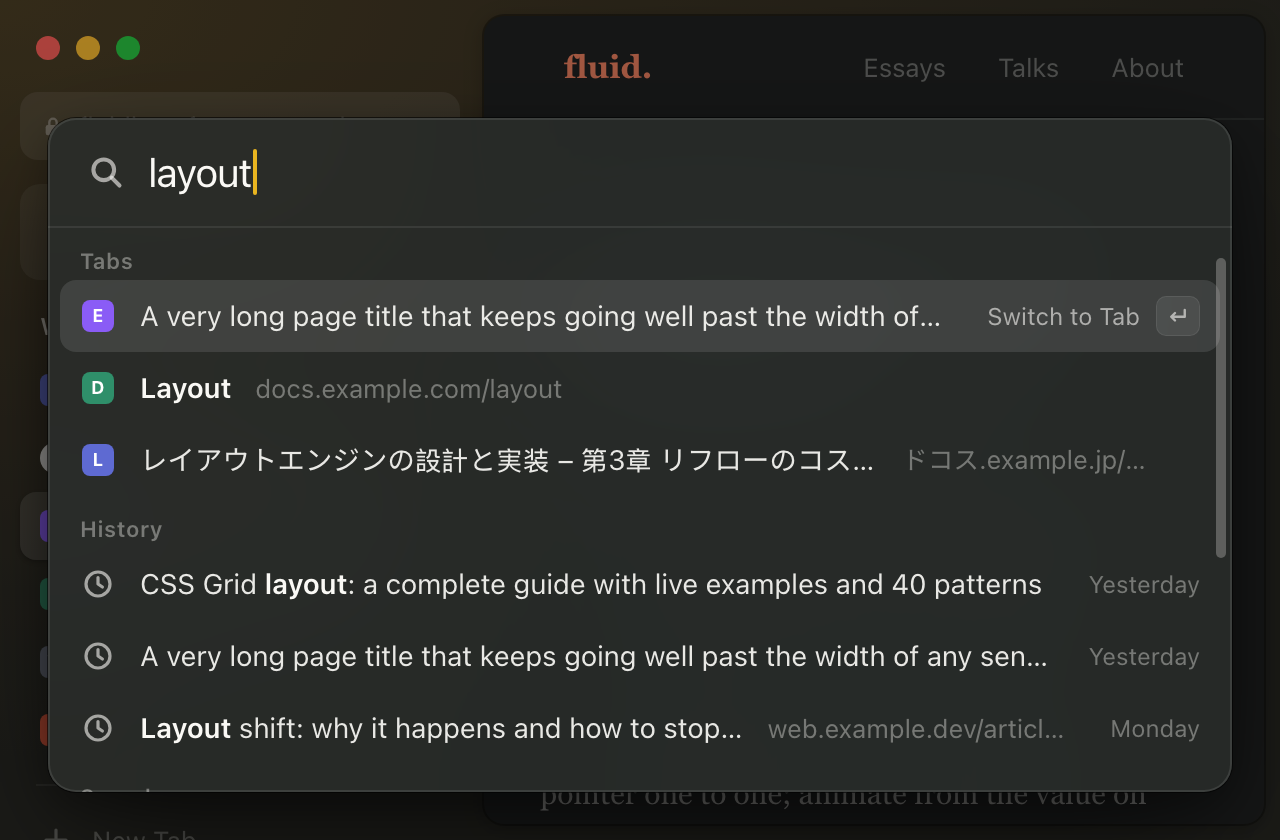
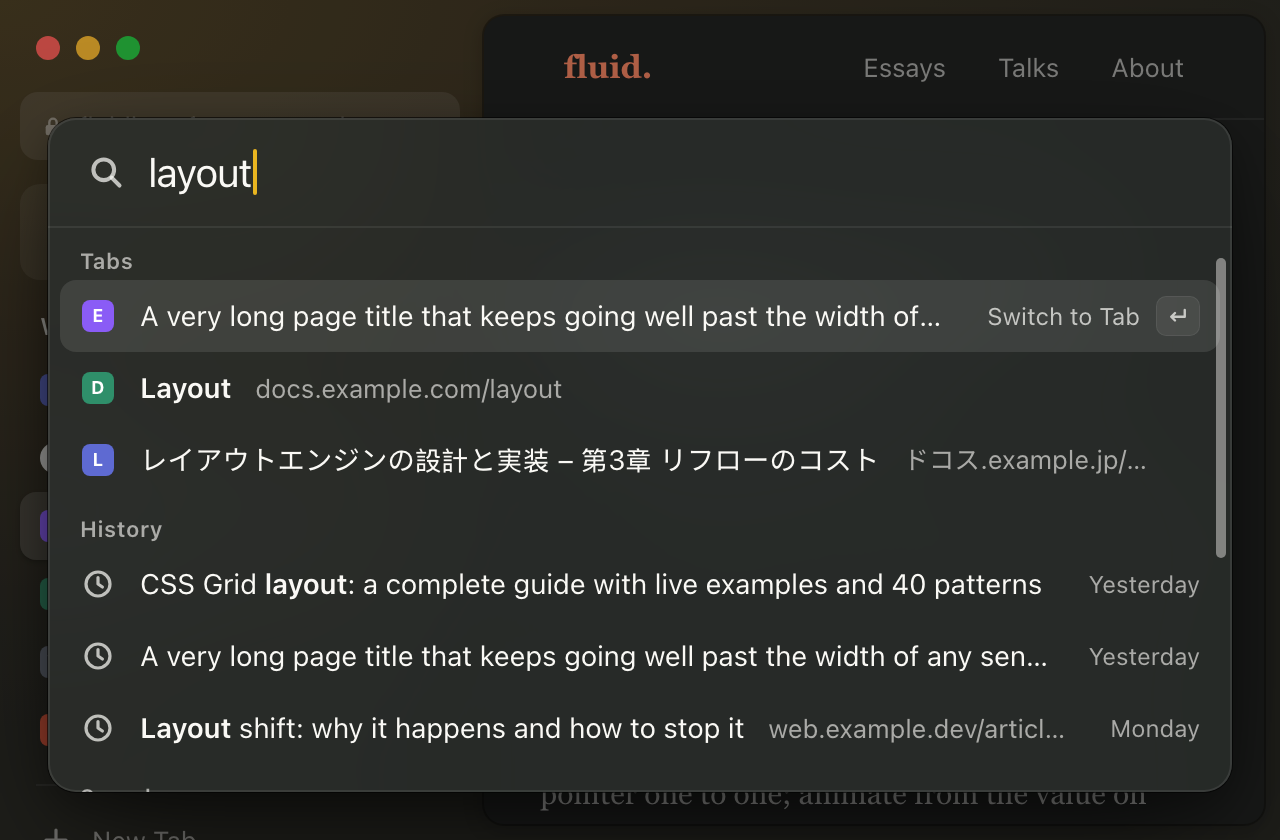
Design: use the shipped command bar tokens, protect the title when truncating, spec gaps (#988)

diff --git a/design/command-bar/prototype/window.css b/design/command-bar/prototype/window.css
@@ -10,21 +10,21 @@ body { font-family: var(--sys); -webkit-font-smoothing: antialiased; position: r
 
 /* Theme tokens. dark is the default; body.light overrides. */
 body {
-  --ink: rgb(250 249 245 / .92); --ink-2: rgb(250 249 245 / .6); --ink-3: rgb(250 249 245 / .38);
-  --strong: var(--porcelain); --hair: rgb(255 255 255 / .08); --sel: rgb(255 255 255 / .11);
-  --kbd: rgb(255 255 255 / .08); --well: rgb(255 255 255 / .06);
-  --bar: rgb(40 43 41 / .88); --bar-edge: rgb(255 255 255 / .1);
-  --scrim: rgb(8 9 8 / .34);
+  --ink: rgb(250 249 245 / .92); --ink-2: rgb(250 249 245 / .72); --ink-3: rgb(250 249 245 / .62);
+  --strong: var(--porcelain); --hair: rgb(255 255 255 / .07); --sel: rgb(255 255 255 / .10);
+  --kbd: rgb(255 255 255 / .07); --well: rgb(255 255 255 / .06);
+  --bar: rgb(41 44 42 / .84); --bar-edge: rgb(255 255 255 / .09);
+  --scrim: rgb(10 11 10 / .28);
   --shadow: 0 0 0 .5px rgb(0 0 0 / .6), 0 24px 64px -12px rgb(0 0 0 / .65), 0 6px 18px rgb(0 0 0 / .25);
   background: #1b1d1c;
 }
 body.light {
-  --ink: rgb(32 35 33 / .9); --ink-2: rgb(32 35 33 / .62); --ink-3: rgb(32 35 33 / .42);
-  --strong: var(--graphite); --hair: rgb(32 35 33 / .09); --sel: rgb(32 35 33 / .075);
-  --kbd: rgb(32 35 33 / .06); --well: rgb(32 35 33 / .05);
-  --bar: rgb(252 251 248 / .9); --bar-edge: rgb(255 255 255 / .8);
-  --scrim: rgb(32 35 33 / .12);
-  --shadow: 0 0 0 .5px rgb(32 35 33 / .22), 0 22px 56px -14px rgb(32 35 33 / .38), 0 5px 14px rgb(32 35 33 / .1);
+  --ink: rgb(32 35 33 / .9); --ink-2: rgb(32 35 33 / .72); --ink-3: rgb(32 35 33 / .68);
+  --strong: var(--graphite); --hair: rgb(32 35 33 / .09); --sel: rgb(32 35 33 / .07);
+  --kbd: rgb(32 35 33 / .055); --well: rgb(32 35 33 / .05);
+  --bar: rgb(253 252 249 / .86); --bar-edge: rgb(255 255 255 / .70);
+  --scrim: rgb(32 35 33 / .10);
+  --shadow: 0 0 0 .5px rgb(32 35 33 / .18), 0 22px 56px -14px rgb(32 35 33 / .38), 0 5px 14px rgb(32 35 33 / .1);
   background: #e6e1d3;
 }
 

diff --git a/design/command-bar/prototype/bar.css b/design/command-bar/prototype/bar.css
@@ -10,9 +10,9 @@
 .grp { height: 26px; padding: 10px 10px 0; font-size: 11px; font-weight: 600; letter-spacing: .02em; color: var(--ink-3); }
 .grp:first-child { padding-top: 4px; height: 20px; }
 .row { height: 36px; border-radius: 8px; display: flex; align-items: center; gap: 12px; padding: 0 10px; }
-.row .t { flex: 0 1 auto; min-width: 0; max-width: 100%; font-size: 14px; color: var(--ink); white-space: nowrap; overflow: hidden; text-overflow: ellipsis; }
+.row .t { flex: 0 1 auto; min-width: 0; max-width: 100%; font-size: 14px; color: var(--strong); white-space: nowrap; overflow: hidden; text-overflow: ellipsis; }
 .row .t b { font-weight: 600; color: var(--strong); }
-.row .u { flex: 0 100 auto; min-width: 0; font-size: 13px; color: var(--ink-3); white-space: nowrap; overflow: hidden; text-overflow: ellipsis; }
+.row .u { flex: 1 1 0; min-width: 0; font-size: 13px; color: var(--ink-3); white-space: nowrap; overflow: hidden; text-overflow: ellipsis; }
 .row .r { margin-left: auto; flex: none; padding-left: 8px; font-size: 12px; color: var(--ink-3); display: flex; align-items: center; gap: 8px; }
 .row.sel { background: var(--sel); } .row.sel .r { color: var(--ink-2); }
 .verb { font-size: 12px; }

diff --git a/design/command-bar/README.md b/design/command-bar/README.md
@@ -40,18 +40,28 @@ Typeface: the system font (SF Pro; `-apple-system` in the prototype). Brand rule
 - No user-facing "Arc". Say "browser data" if the data source ever has to be named.
 - No contrast ratios or warnings in the UI.
 
-| Token (existing in `ShellTokens`) | Use |
-|---|---|
-| `commandBarSurface` | panel fill, with the blur; dark `rgb(40 43 41 / 88%)`, light `rgb(252 251 248 / 90%)` |
-| `commandBarText` | field text, row titles, bold query match |
-| `commandBarSecondaryText` | row URL, verb, trailing time, icons |
-| `commandBarTertiaryText` (new, if not present) | placeholder, group headers; dark white 38 %, light graphite 42 % |
-| `commandBarDivider` | hairline under the field |
-| `commandBarSelectedRow` | selected and hovered row fill; hover is the same fill at 60 % |
-| `commandBarBorder` | 1 pt inner edge, 0.5 pt outer edge |
-| `commandBarScrim` | dark 34 % black, light 12 % graphite |
+No new tokens and no changed token values. Every value below already exists in `ShellTokens`
+(`app/ArktShell/ShellKit/Sources/ShellUI/Theme/ShellTokens.swift`); the prototype uses the same numbers.
 
-The mustard tick token, pill fills and preview tokens go away with the code that used them.
+| Token | Value (light / dark) | Use here |
+|---|---|---|
+| `commandBarSurface` | `#FDFCF9` 86 % / `#292C2A` 84 %, over the blur | panel fill |
+| `commandBarSurfaceOpaque` | `#FAF9F5` / `#262927` | panel fill under Reduce Transparency, and the surface contrast is measured on |
+| `commandBarText` | graphite / porcelain | field text, row titles, the bold query match |
+| `commandBarSecondaryText` | graphite 72 % / porcelain 72 % | icons, the verb, key cap label |
+| `commandBarTertiaryText` | graphite 68 % / porcelain 62 % | row URL, trailing time, group headers, placeholder |
+| `commandBarDivider` | graphite 9 % / white 7 % | hairline under the field |
+| `commandBarInnerEdge`, `commandBarBorder` | white 70 % / white 9 %; graphite 18 % / black 60 % | 1 pt inner edge, 0.5 pt outer edge |
+| `commandBarSelectedRow` | graphite 7 % / white 10 % | selected and hovered row fill |
+| `commandBarKeyCap` | graphite 5.5 % / white 7 % | Return key cap |
+| `commandBarScrim` | graphite 10 % / `#0A0B0A` 28 % | dim over the window |
+| `increasedContrastEdge` | black 20 % / white 20 %, 1 pt | Increase Contrast: the panel's edge |
+
+Token usage changes (values unchanged): row titles now use `commandBarText` at rest (the hybrid used
+`commandBarSecondaryText`), so the bold match and the selected fill carry the hierarchy.
+
+Removed with the code that used them: `commandBarPillWell`, `commandBarPillOn`, `commandBarPillOnText`,
+`commandBarTick`, `commandBarThumbnailWell`, `commandBarOpenDot`.
 
 ## Layout
 
@@ -103,6 +113,8 @@ only when the window is too short (see small window).
 - Titles are one line, tail ellipsis, never wrap. The title is protected: the URL truncates first.
 - The URL is dropped entirely when less than 48 wide would remain, rather than showing a stub.
 - A suggestion that is too long truncates with an ellipsis like a title.
+- **Go** row: the typed text is the title, tail ellipsis, no URL slot.
+- **Paste and Go** row: the title "Paste and Go" is protected; the clipboard address sits in the URL slot, tail ellipsis, dropped under the same 48 pt rule.
 - The field scrolls horizontally with the caret; it never wraps and never grows.
 - Right-to-left and CJK text align and truncate by their own direction; the layout mirrors.
 
@@ -158,9 +170,10 @@ rule (motion with a purpose; none here has one) and Raycast/Spotlight practice.
 | Hover | Instant fill change. |
 | Press on a row | Fill goes to 100 % of its token while the button is down (feedback on pointer-down, action on release). No scale. |
 
-Reduce Motion: identical, there is nothing to reduce. **Reduce Transparency**: opaque `commandBarSurface`, blur off,
-shadow stays. **Increased Contrast**: the 1 pt inner edge goes to a defined border at full contrast; secondary text
-steps up one level.
+Reduce Motion: identical, there is nothing to reduce. **Reduce Transparency**: the panel fills with
+`commandBarSurfaceOpaque`, blur off, shadow stays. **Increase Contrast**: the panel gets a 1 pt `increasedContrastEdge`
+(black 20 % / white 20 %, drawn as a layer border so nothing changes size), and tertiary text (URL, time, group
+headers, placeholder) uses `commandBarSecondaryText`.
 
 ## What keeps it fast and reliable
 
@@ -196,3 +209,5 @@ steps up one level.
 3. **Current tab** is excluded from Tabs. Confirm that Cmd-L on the page you are already on should never offer to
    "switch" to it.
 4. **Extensions and folders as results** (#562) are not in this design. Say if they should return as a fourth group.
+5. **Space rows** (switch to a Space by name, built in #112) are dropped: tabs in other Spaces are still found under
+   Tabs. Confirm, or say they return as a row kind under Tabs.
